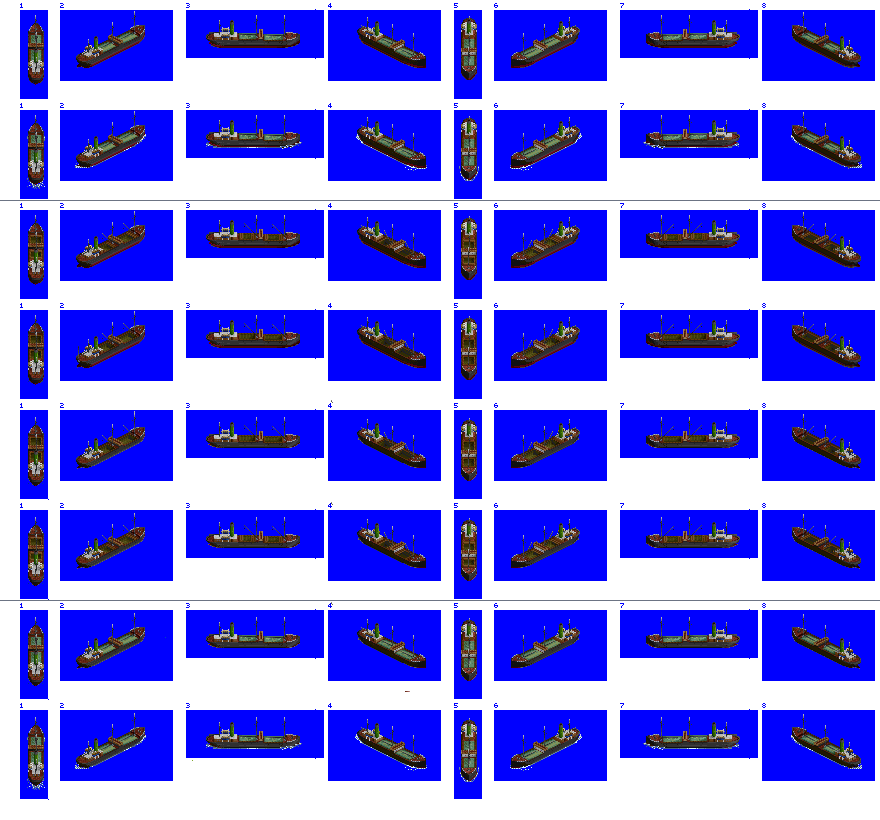
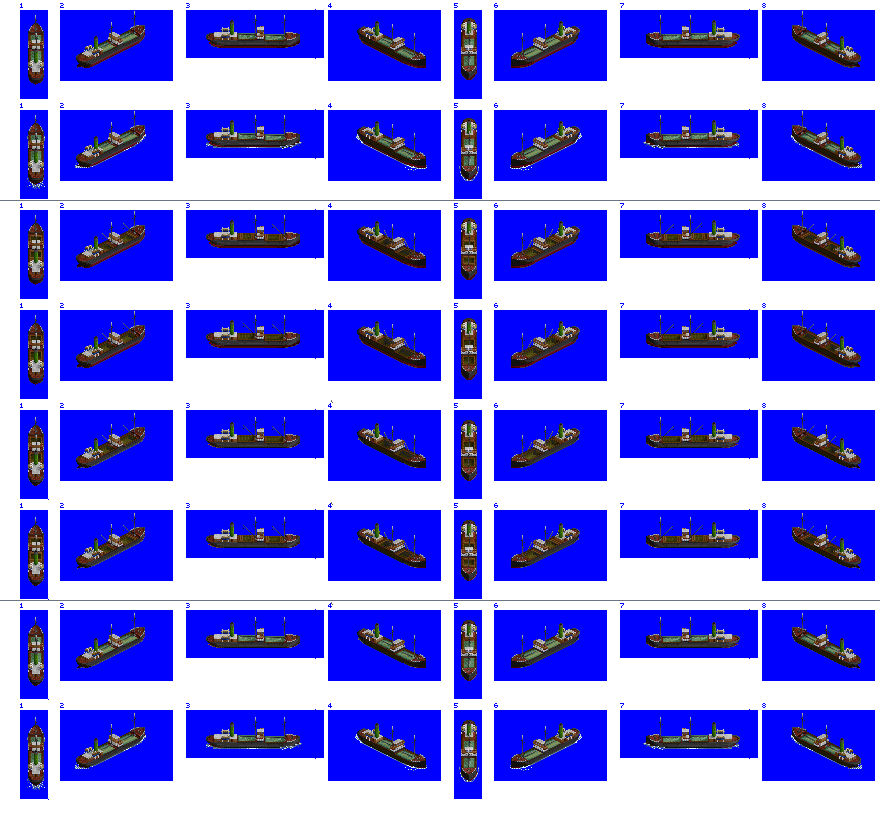
Change: remove graphics variations for Altamira Freighter

diff --git a/src/ships/altamira_freighter.py b/src/ships/altamira_freighter.py
@@ -24,13 +24,5 @@ ship = GeneralCargoVessel(id = 'altamira_freighter',
             graphics_status = 'Work in Progress - Coxx',)
 
 ship.add_model_variant(intro_date=0,
-                       end_date=1910,
-                       spritesheet_suffix=0)
-
-ship.add_model_variant(intro_date=1910,
-                       end_date=1960,
-                       spritesheet_suffix=1)
-
-ship.add_model_variant(intro_date=1960,
                        end_date=global_constants.max_game_date,
-                       spritesheet_suffix=2)
+                       spritesheet_suffix=0)
